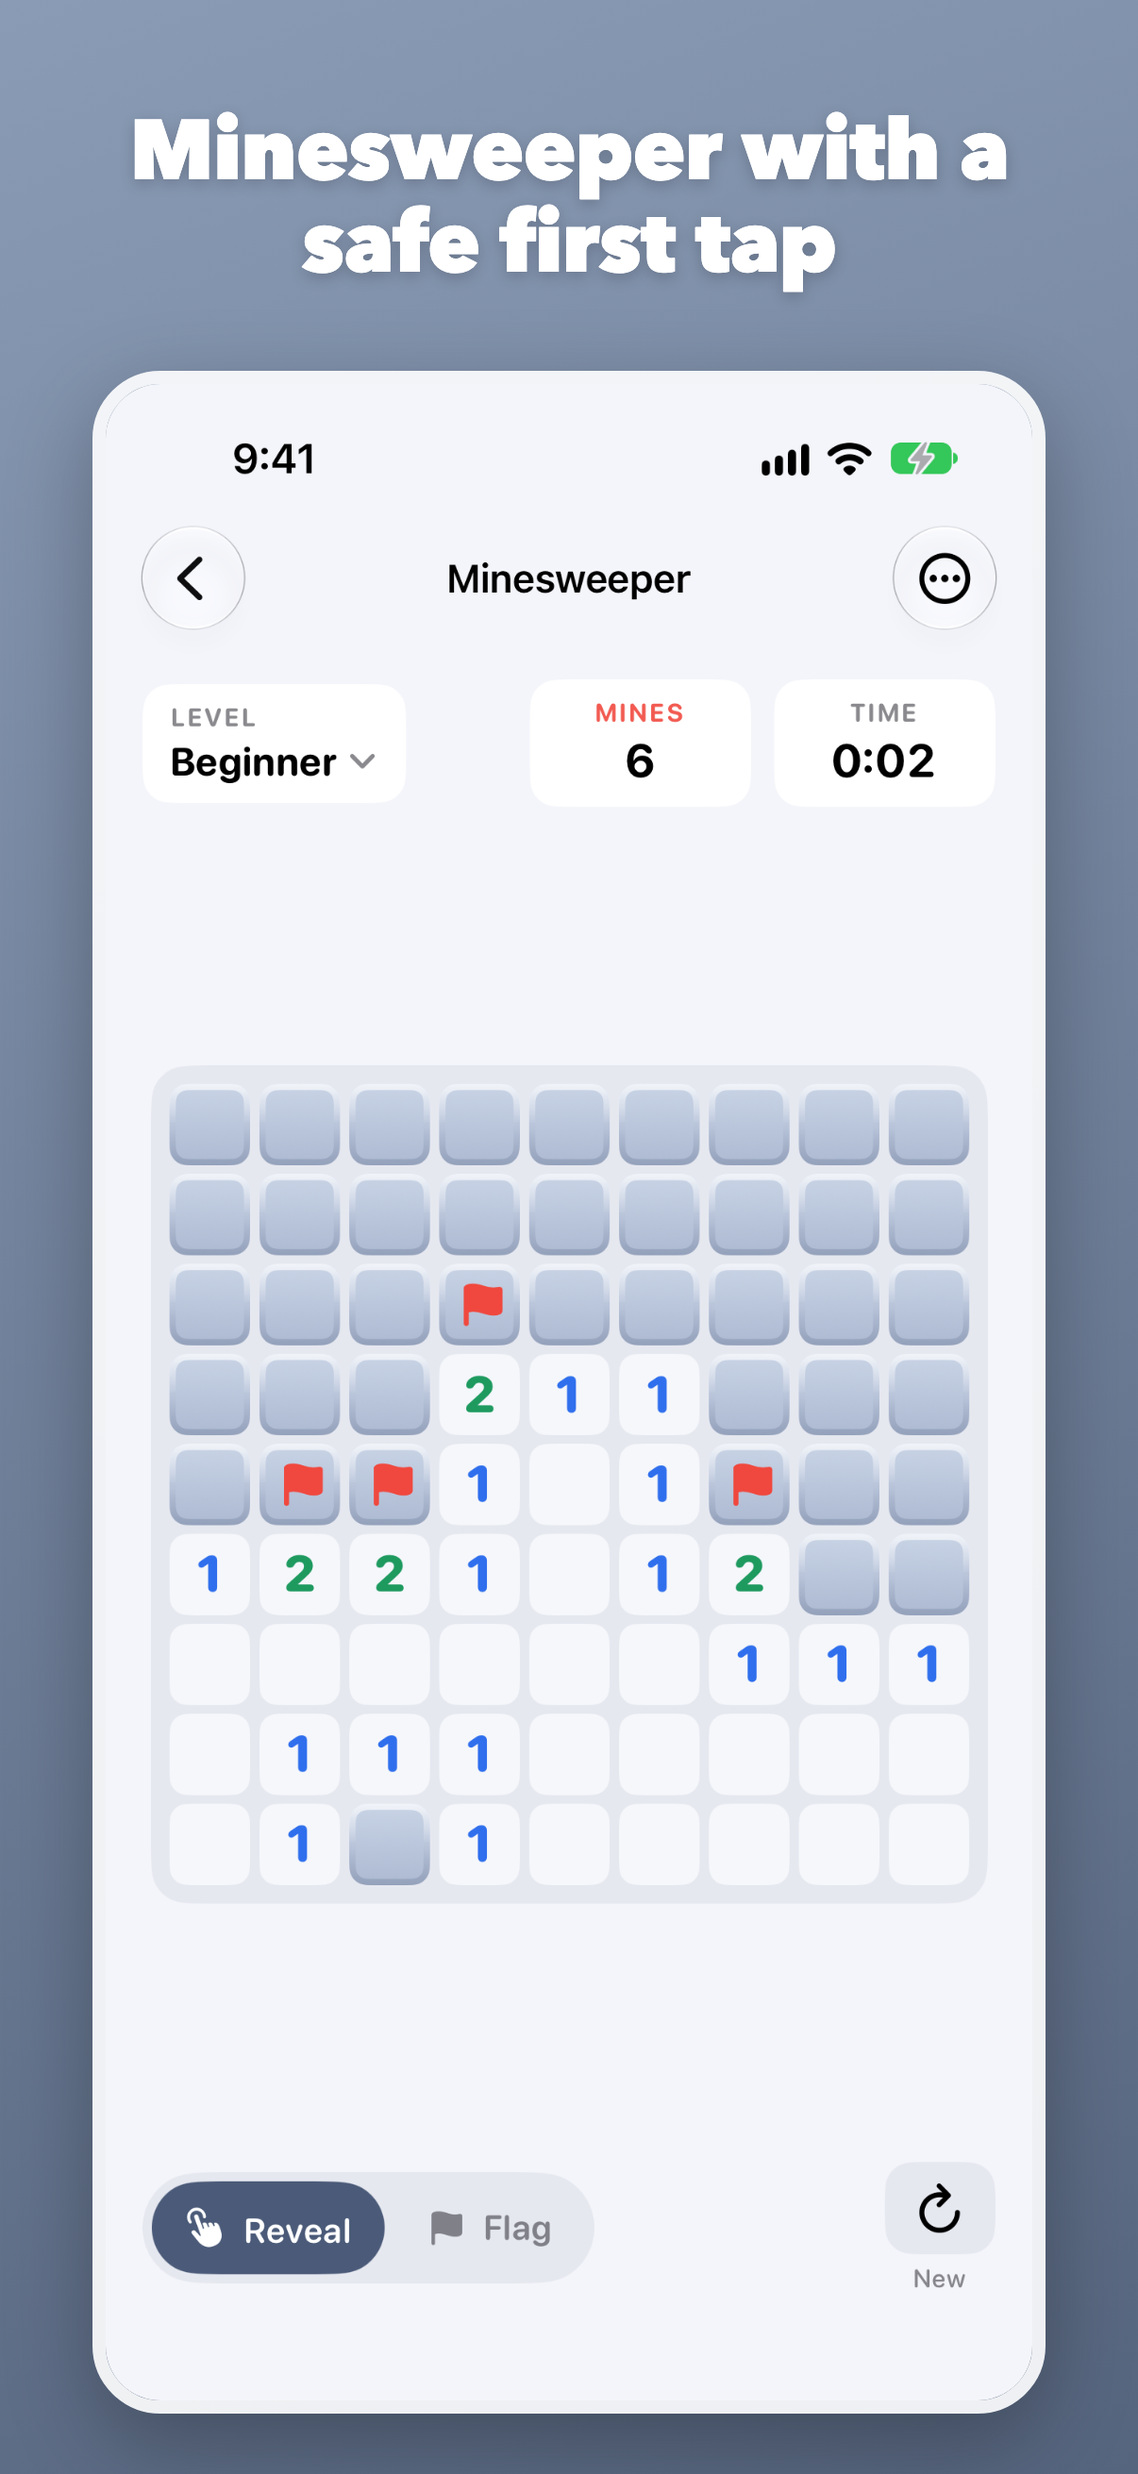
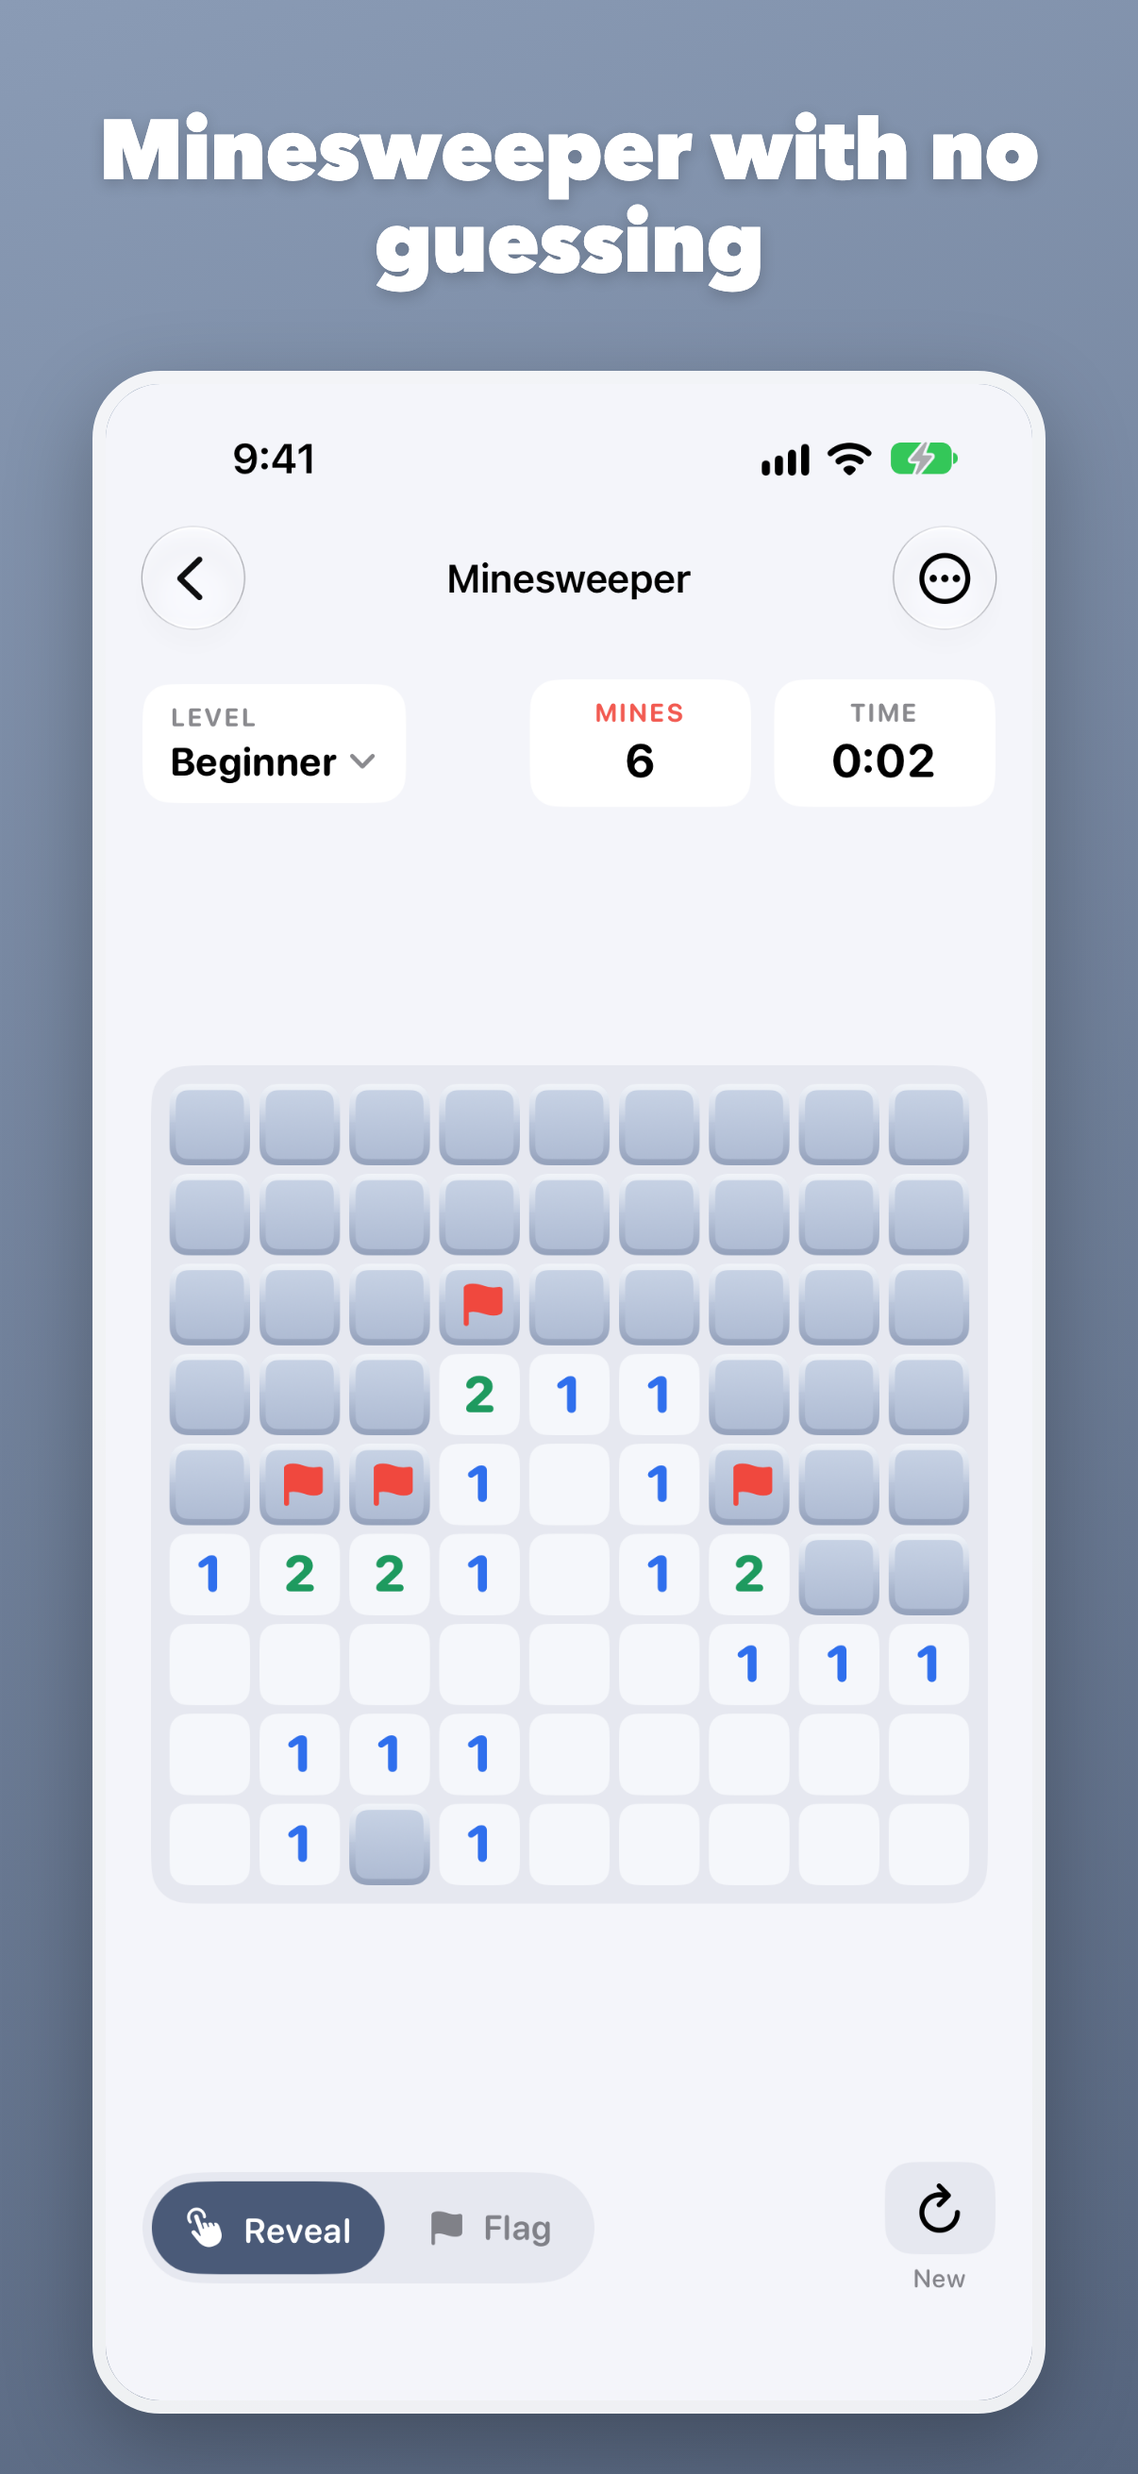
Minesweeper: every board is solvable without guessing
- New Minesweeper.Solver clears a board the way a careful player would: single
  clues, overlapping clue pairs (1-2-1 patterns) and the mine count, never a guess.
- The first tap redraws the layout (deterministically per seed) until the solver
  can clear it from that tap; ~10 tries for expert, under 10 ms optimized.
- Rules, README, website, App Store text and screenshot caption mention it.

Changed region(s): [[0.092, 0.0309, 0.9204, 0.1236]]

diff --git a/Packages/GameLogic/Sources/GameLogic/Minesweeper/MinesweeperSolver.swift b/Packages/GameLogic/Sources/GameLogic/Minesweeper/MinesweeperSolver.swift
@@ -1,0 +1,175 @@
+extension Minesweeper {
+    /// Decides whether a board can be cleared by logic alone, the way a careful player would:
+    /// no step ever needs a guess.
+    ///
+    /// It applies, until nothing changes:
+    /// 1. **Single clues**: a number whose mines are all found makes its other hidden neighbours
+    ///    safe; a number with exactly as many hidden neighbours as missing mines makes them all mines.
+    /// 2. **Pairs of overlapping clues** (e.g. 1-2-1 patterns): if clue A needs more mines in the
+    ///    cells only it sees than clue B could take, those cells are mines and B's own cells are safe;
+    ///    a clue whose cells contain another clue's cells with the same count makes the rest safe.
+    /// 3. **The mine count**, once the clues are exhausted: no mines left means every hidden cell
+    ///    is safe; as many mines left as hidden cells means every one is a mine.
+    ///
+    /// The solver never looks at where the mines are except to read the numbers a real reveal
+    /// would show. A `true` answer is a guarantee; `false` means "these rules get stuck", which
+    /// can reject a few boards an expert could still finish.
+    public enum Solver {
+        /// Whether the board can be cleared by logic after the player reveals `start`.
+        public static func solvesWithoutGuessing(_ board: State, from start: GridPoint) -> Bool {
+            solvesWithoutGuessing(board, opened: [start])
+        }
+
+        /// Whether the board can be cleared by logic once the `opened` cells are revealed.
+        public static func solvesWithoutGuessing(_ board: State, opened: [GridPoint]) -> Bool {
+            var grid = Grid(board)
+            for p in opened {
+                guard !grid.isMine[grid.index(p)] else { return false }
+                grid.reveal(grid.index(p))
+            }
+            return grid.solve()
+        }
+    }
+}
+
+/// A flat working copy of a board: what the player knows, and the mines (only read through
+/// the numbers a reveal would show).
+private struct Grid {
+    enum Known: UInt8 { case unknown, safe, mine }
+
+    let rows: Int
+    let cols: Int
+    let isMine: [Bool]
+    let adjacent: [Int]
+    let neighbors: [[Int]]
+    let mineCount: Int
+    var known: [Known]
+    var safeLeft: Int
+    var minesFound = 0
+
+    init(_ board: Minesweeper.State) {
+        rows = board.rows
+        cols = board.cols
+        let points = board.allPoints
+        isMine = points.map { board[$0].isMine }
+        adjacent = points.map { board[$0].adjacent }
+        neighbors = points.map { p in board.neighbors(of: p).map { $0.row * board.cols + $0.col } }
+        mineCount = board.mineCount
+        known = Array(repeating: .unknown, count: points.count)
+        safeLeft = points.count - board.mineCount
+    }
+
+    func index(_ p: GridPoint) -> Int { p.row * cols + p.col }
+
+    /// Opens a safe cell, flooding through zeros like the game does.
+    mutating func reveal(_ start: Int) {
+        guard known[start] == .unknown else { return }
+        var stack = [start]
+        known[start] = .safe
+        safeLeft -= 1
+        while let i = stack.popLast() {
+            guard adjacent[i] == 0 else { continue }
+            for n in neighbors[i] where known[n] == .unknown {
+                known[n] = .safe
+                safeLeft -= 1
+                stack.append(n)
+            }
+        }
+    }
+
+    mutating func markMine(_ i: Int) {
+        guard known[i] == .unknown else { return }
+        known[i] = .mine
+        minesFound += 1
+    }
+
+    /// A revealed number's hidden neighbours and how many of them are mines.
+    struct Clue {
+        var cells: [Int]
+        var mines: Int
+    }
+
+    func clue(at i: Int) -> Clue? {
+        guard known[i] == .safe, adjacent[i] > 0 else { return nil }
+        var hidden: [Int] = []
+        var flagged = 0
+        for n in neighbors[i] {
+            switch known[n] {
+            case .unknown: hidden.append(n)
+            case .mine: flagged += 1
+            case .safe: break
+            }
+        }
+        return hidden.isEmpty ? nil : Clue(cells: hidden, mines: adjacent[i] - flagged)
+    }
+
+    /// Applies the rules until the board is clear (true) or nothing more can be deduced (false).
+    mutating func solve() -> Bool {
+        while safeLeft > 0 {
+            if applySingleClues() || applyCluePairs() || applyMineCount() { continue }
+            return false
+        }
+        return true
+    }
+
+    private mutating func applySingleClues() -> Bool {
+        var progress = false
+        for i in known.indices {
+            guard let c = clue(at: i) else { continue }
+            if c.mines == 0 {
+                for n in c.cells { reveal(n) }
+                progress = true
+            } else if c.mines == c.cells.count {
+                for n in c.cells { markMine(n) }
+                progress = true
+            }
+        }
+        return progress
+    }
+
+    private mutating func applyCluePairs() -> Bool {
+        let clues = known.indices.compactMap { clue(at: $0) }
+        // Index clues by the hidden cells they see, so only clues that share a cell are compared.
+        var byCell: [Int: [Int]] = [:]
+        for (k, c) in clues.enumerated() { for cell in c.cells { byCell[cell, default: []].append(k) } }
+        for (a, ca) in clues.enumerated() {
+            let setA = Set(ca.cells)
+            var partners = Set<Int>()
+            for cell in ca.cells { partners.formUnion(byCell[cell] ?? []) }
+            for b in partners where b != a {
+                let cb = clues[b]
+                let setB = Set(cb.cells)
+                let onlyA = setA.subtracting(setB)
+                let onlyB = setB.subtracting(setA)
+                // A needs more mines than the shared cells can hold beyond B's count:
+                // its own cells are all mines, and B's own cells are all safe.
+                if !onlyA.isEmpty, ca.mines - cb.mines == onlyA.count {
+                    for n in onlyA { markMine(n) }
+                    for n in onlyB { reveal(n) }
+                    return true
+                }
+                // A's cells all lie inside B's and both need the same number: B's extra cells are safe.
+                if onlyA.isEmpty, !onlyB.isEmpty, ca.mines == cb.mines {
+                    for n in onlyB { reveal(n) }
+                    return true
+                }
+            }
+        }
+        return false
+    }
+
+    private mutating func applyMineCount() -> Bool {
+        let hidden = known.indices.filter { known[$0] == .unknown }
+        guard !hidden.isEmpty else { return false }
+        let left = mineCount - minesFound
+        if left == 0 {
+            for n in hidden { reveal(n) }
+            return true
+        }
+        if left == hidden.count {
+            for n in hidden { markMine(n) }
+            return true
+        }
+        return false
+    }
+}

diff --git a/Packages/GameLogic/Tests/GameLogicTests/MinesweeperNoGuessTests.swift b/Packages/GameLogic/Tests/GameLogicTests/MinesweeperNoGuessTests.swift
@@ -1,0 +1,76 @@
+import Foundation
+import Testing
+@testable import GameLogic
+
+@Suite("Minesweeper no-guess")
+struct MinesweeperNoGuessTests {
+    typealias M = Minesweeper
+
+    func p(_ r: Int, _ c: Int) -> GridPoint { GridPoint(row: r, col: c) }
+
+    // MARK: Solver
+
+    @Test func solverClearsABoardThatNeedsOnlyLogic() {
+        // [start][1][mine]: the 1 has a single hidden neighbour, so it must be the mine.
+        let board = M.State(rows: 1, cols: 3, mines: [p(0, 2)])
+        #expect(M.Solver.solvesWithoutGuessing(board, from: p(0, 0)))
+    }
+
+    @Test func solverRejectsAFiftyFifty() {
+        // Two hidden cells share one mine and every clue sees both: a coin flip.
+        let board = M.State(rows: 2, cols: 3, mines: [p(0, 2)])
+        #expect(!M.Solver.solvesWithoutGuessing(board, from: p(0, 0)))
+    }
+
+    @Test func solverUsesOverlappingClues() {
+        // Top row 1 2 1 over a hidden bottom row with mines at both ends (the classic 1-2-1).
+        // No single clue decides anything; comparing neighbouring clues does.
+        let board = M.State(rows: 2, cols: 3, mines: [p(1, 0), p(1, 2)])
+        #expect(M.Solver.solvesWithoutGuessing(board, opened: [p(0, 0), p(0, 1), p(0, 2)]))
+    }
+
+    @Test func solverNeedsTheCluesToDecide() {
+        // Row 0: [ . ][ 1 ][ ? ]   Row 1: [ . ][ 1 ][ ? ]  with one mine at (0,2).
+        // Both 1s see both hidden cells, so they leave a coin flip...
+        let board = M.State(rows: 2, cols: 3, mines: [p(0, 2)])
+        let open = [p(0, 0), p(0, 1), p(1, 0), p(1, 1)]
+        #expect(!M.Solver.solvesWithoutGuessing(board, opened: open))
+        // ...but when both hidden cells are mines, the clues read 2 and settle it.
+        let full = M.State(rows: 2, cols: 3, mines: [p(0, 2), p(1, 2)])
+        #expect(M.Solver.solvesWithoutGuessing(full, opened: open))
+    }
+
+    // MARK: Generation
+
+    @Test(arguments: M.Level.allCases)
+    func everyGeneratedBoardIsSolvableWithoutGuessing(level: M.Level) {
+        var rng = SeededRandom(seed: 7)
+        let boards = level == .expert ? 40 : 120
+        for seed in UInt64(0)..<UInt64(boards) {
+            var s = M.State(level: level, seed: seed)
+            let tap = p(Int.random(in: 0..<level.rows, using: &rng), Int.random(in: 0..<level.cols, using: &rng))
+            s.reveal(tap)
+            #expect(s.minePoints.count == level.mines)
+            #expect(s.neighbors(of: tap).allSatisfy { !s[$0].isMine }, "the first tap still opens an area")
+            let fresh = M.State(rows: s.rows, cols: s.cols, mines: Set(s.minePoints))
+            #expect(M.Solver.solvesWithoutGuessing(fresh, from: tap), "\(level) seed \(seed) needs a guess")
+        }
+    }
+
+    @Test func noGuessGenerationIsDeterministicPerSeed() {
+        var a = M.State(level: .expert, seed: 11)
+        var b = M.State(level: .expert, seed: 11)
+        a.reveal(p(15, 8)); b.reveal(p(15, 8))
+        #expect(a == b)
+    }
+
+    @Test func expertGenerationIsFast() {
+        let start = threadCPUTime()
+        for seed in UInt64(100)..<106 {
+            var s = M.State(level: .expert, seed: seed)
+            s.reveal(p(0, 0)) // a corner tap: the hardest start
+        }
+        // Generous for unoptimized test builds; optimized builds are far faster.
+        #expect((threadCPUTime() - start) / 6 < 1.0)
+    }
+}

diff --git a/Packages/GameLogic/Sources/GameLogic/Minesweeper/Minesweeper.swift b/Packages/GameLogic/Sources/GameLogic/Minesweeper/Minesweeper.swift
@@ -1,7 +1,8 @@
 /// Minesweeper: uncover every safe cell of a field without touching a mine.
 ///
 /// Mines are placed lazily on the first reveal so the first tap is always safe and
-/// opens an area (the tapped cell and its neighbours are kept mine-free).
+/// opens an area (the tapped cell and its neighbours are kept mine-free). The board is also
+/// "no-guess": from that first tap it can be cleared by logic alone (see `Solver`).
 public enum Minesweeper {
     public enum Level: String, CaseIterable, Codable, Sendable, Identifiable {
         case beginner, intermediate, expert
@@ -188,16 +189,26 @@ public enum Minesweeper {
 
         private func index(_ p: GridPoint) -> Int { p.row * cols + p.col }
 
-        /// Places mines uniformly at random, keeping `safe` and (when room allows) its neighbours clear.
+        /// Tries this many random layouts for one that needs no guessing. About one expert layout
+        /// in ten qualifies, so running out (under 1e-18 for expert) would need astronomical luck;
+        /// the last layout is kept then.
+        static let maxLayoutAttempts = 500
+
+        /// Places mines at random, keeping `safe` and (when room allows) its neighbours clear,
+        /// and redraws until the board can be cleared from `safe` without guessing.
         mutating func generate(safeAround safe: GridPoint) {
             var excluded = Set([safe] + neighbors(of: safe))
             if rows * cols - excluded.count < mineCount { excluded = [safe] }
             var candidates = allPoints.filter { !excluded.contains($0) }
-            candidates.shuffle(using: &rng)
-            placeMines(at: Set(candidates.prefix(mineCount)))
+            for _ in 0..<Self.maxLayoutAttempts {
+                candidates.shuffle(using: &rng)
+                placeMines(at: Set(candidates.prefix(mineCount)))
+                if Solver.solvesWithoutGuessing(self, from: safe) { return }
+            }
         }
 
         private mutating func placeMines(at mines: Set<GridPoint>) {
+            for i in cells.indices { cells[i].isMine = false }
             for p in mines { cells[index(p)].isMine = true }
             for p in allPoints {
                 cells[index(p)].adjacent = neighbors(of: p).filter { mines.contains($0) }.count

diff --git a/AirplaneModeGames/Games/Minesweeper/MinesweeperView.swift b/AirplaneModeGames/Games/Minesweeper/MinesweeperView.swift
@@ -167,6 +167,7 @@ struct MinesweeperView: View {
         sections: [
             .init(title: "Revealing", symbol: "hand.tap", points: [
                 "Tap a square to reveal it. Your first tap is always safe and opens an area.",
+                "Every board can be cleared by logic alone: you'll never be stuck with a 50/50 guess.",
                 "A number tells you how many mines touch that square, including diagonals.",
                 "Empty squares open up their neighbors automatically.",
             ]),

diff --git a/tools/appstore_screenshots.py b/tools/appstore_screenshots.py
@@ -46,7 +46,7 @@ SHOTS = [
      ["-openGame", "wordGuess", "-demoState"], 4),
     ("06-nonograms", "Reveal 44 hidden pictures", ("#FF6F61", "#D6453A"),
      ["-openGame", "nonograms", "-nonogramsDemo", "3", "m-pine-tree"], 4),
-    ("07-minesweeper", "Minesweeper with a safe first tap", ("#8A9BB5", "#56657E"),
+    ("07-minesweeper", "Minesweeper with no guessing", ("#8A9BB5", "#56657E"),
      ["-openGame", "minesweeper", "-minesweeperDemo", "beginner", "playing"], 4),
     ("08-snake", "Snake, 2048, Block Puzzle and more", ("#7BD957", "#3FA33A"),
      ["-openGame", "snake", "-snakeDemo"], 4),

diff --git a/README.md b/README.md
@@ -12,7 +12,7 @@ No ads. No accounts. No tracking. No internet connection — ever.
 | **Solitaire** | Klondike draw 1 / draw 3, solver-checked winnable deals, auto-complete |
 | **Block Puzzle** | Drag pieces onto an 8×8 board, row & column clears, combos and streaks |
 | **Tile Match** | Mahjong-style tile matching, 6 original layouts, always-solvable deals |
-| **Minesweeper** | Safe first tap, chording, flag mode, pinch to zoom |
+| **Minesweeper** | No-guess boards (always solvable by logic), safe first tap, chording, flag mode, pinch to zoom |
 | **Chess** | vs. computer (5 levels) or pass & play, full rules, move list |
 | **Word Guess** | 5-letter word in 6 tries, hard mode, high-contrast colors, pass & play |
 | **Nonograms** | 44 original picture puzzles, all solvable by logic alone |

diff --git a/appstore/PUBLISHING.md b/appstore/PUBLISHING.md
@@ -183,7 +183,7 @@ App Store Connect → your app → **iOS App 1.0** (left column).
    • Solitaire: classic Klondike, draw 1 or draw 3, with auto-complete
    • Block Puzzle: fit blocks on the board and clear rows and columns
    • Tile Match: match pairs of free tiles across six original layouts
-   • Minesweeper: a safe first tap, flag mode and pinch to zoom
+   • Minesweeper: every board solvable by logic, never a 50/50 guess, with flag mode and pinch to zoom
    • Chess: play the computer at five levels, or a friend on the same device
    • Word Guess: find the five-letter word in six tries, alone or with a friend
    • Nonograms: 44 original picture puzzles, all solvable by logic alone

diff --git a/docs/index.md b/docs/index.md
@@ -19,7 +19,7 @@ no accounts, no in-app purchases and no tracking.
 | **Solitaire** | Classic Klondike, draw 1 or draw 3, with auto-complete |
 | **Block Puzzle** | Fit blocks on the board and clear rows and columns |
 | **Tile Match** | Match pairs of free tiles across six original layouts |
-| **Minesweeper** | Safe first tap, flag mode and pinch to zoom |
+| **Minesweeper** | Every board solvable by logic, never a 50/50 guess |
 | **Chess** | Play the computer at five levels, or a friend on the same device |
 | **Word Guess** | Find the five-letter word in six tries |
 | **Nonograms** | 44 original picture puzzles, all solvable by logic |
